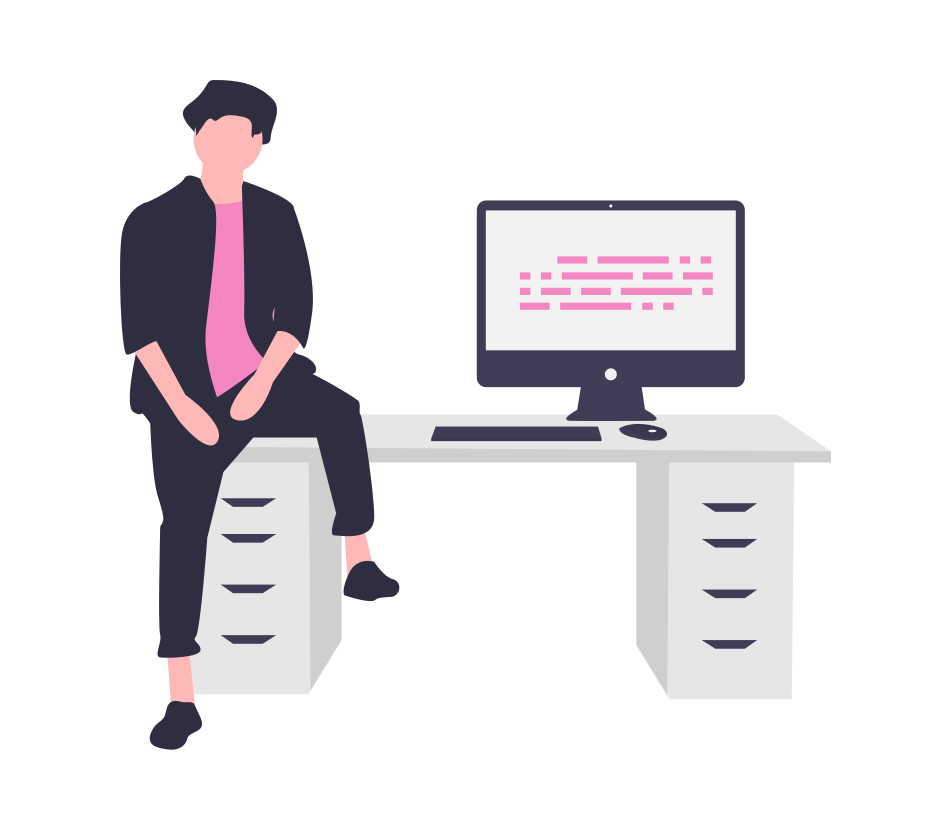
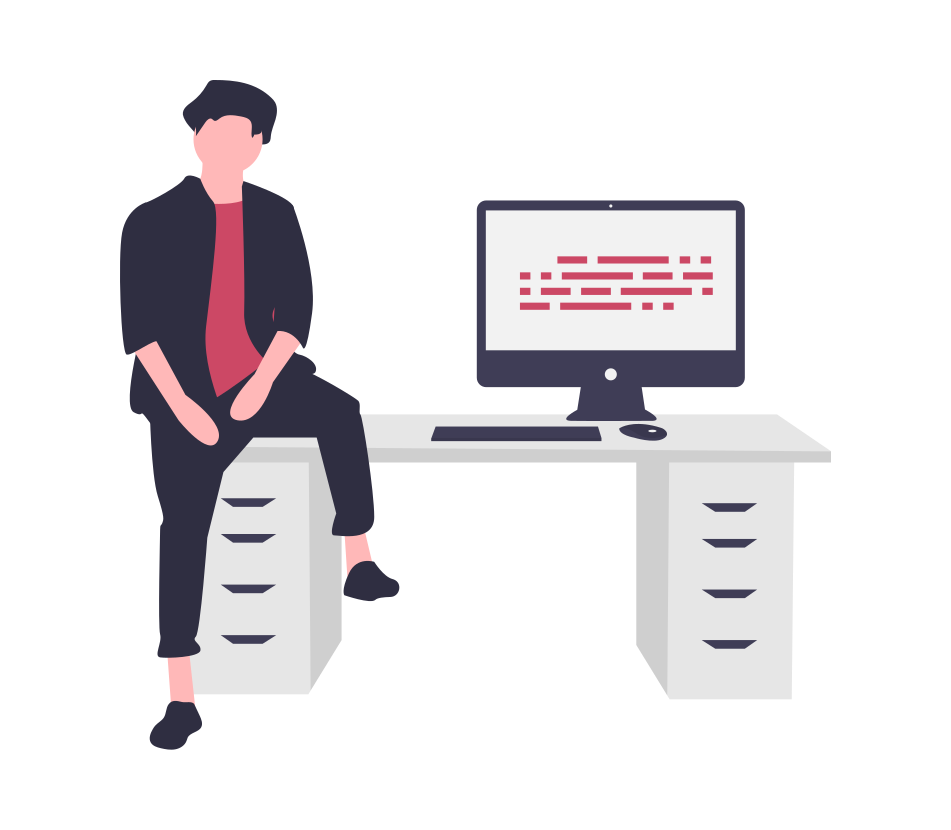
Theme Change

Changed region(s): [[0.5489, 0.3012, 0.7624, 0.3916], [0.2135, 0.241, 0.2744, 0.4819]]

diff --git a/src/Components/Contact/Contact.jsx b/src/Components/Contact/Contact.jsx
@@ -5,6 +5,7 @@ import { Button } from "@material-ui/core";
 import Typography from "@material-ui/core/Typography";
 import EmailIcon from "@material-ui/icons/Email";
 import PhoneIcon from '@material-ui/icons/Phone';
+import LocationOnIcon from '@material-ui/icons/LocationOn';
 import IconButton from "@material-ui/core/IconButton";
 import LinkedInIcon from "@material-ui/icons/LinkedIn";
 import GitHubIcon from "@material-ui/icons/GitHub";
@@ -77,13 +78,13 @@ export const Contact = () => {
             <div className={styles.container} container spacing={1}>
                 <div className={styles.formBox}>
                     <form onSubmit={sendEmail} className={classes.root} noValidate autoComplete="off">
-                        <TextField color="secondary" size="small" label="Name" name="name" />
+                        <TextField color="primary" size="small" label="Name" name="name" />
                         <br />
-                        <TextField color="secondary" size="small" label="Email" name="email" /> <br />
-                        <TextField color="secondary" size="small" label="Subject" name="subject" />
+                        <TextField color="primary" size="small" label="Email" name="email" /> <br />
+                        <TextField color="primary" size="small" label="Subject" name="subject" />
                         <br />
                         <TextField
-                            color="secondary"
+                            color="primary"
                             size="small"
                             name="message"
                             label="Write Your Message here..."
@@ -92,21 +93,25 @@ export const Contact = () => {
                             rows={4}
                             variant="outlined"
                         />
-                        <Button onClick={handleOpen} type="submit" color="secondary" variant="contained">
+                        <Button onClick={handleOpen} type="submit" color="primary" variant="contained">
                             <EmailIcon />
-                            <Typography color="primary">Send Mail</Typography>
+                            <Typography color="secondary">Send Mail</Typography>
                         </Button>
                     </form>
                 </div>
                 <div className={styles.contactDetails}>
                     <div>
-                        <div>
+                        <div className={styles.info}>
                             <EmailIcon />
                             <p>shubhamv430@gmail.com</p>
                         </div>
-                        <div>
+                        <div className={styles.info}>
                             <PhoneIcon />
                             <p>8954686319</p>
+                        </div>
+                        <div className={styles.info}>
+                            <LocationOnIcon />
+                            <p>Baghpat, Uttar Pradesh</p>
                         </div>
                         <div className={styles.iconBox}>
                             <IconButton onClick={() => { window.open("https://www.linkedin.com/in/vshubhams/") }} className={styles.linkedIn}>

diff --git a/src/Components/Navbar/Navbar.jsx b/src/Components/Navbar/Navbar.jsx
@@ -3,11 +3,23 @@ import MenuIcon from "@material-ui/icons/Menu";
 import IconButton from "@material-ui/core/IconButton";
 import { Link as ScrollLink, animateScroll } from "react-scroll";
 import styled from 'styled-components';
+import { useState } from "react";
 
 export const Navbar = ({ toggle }) => {
-  console.log(window.location)
+  const [navbar, setNavbar] = useState(false);
+
+  const changeBackground = () => {
+    if (window.scrollY >= 60) {
+      setNavbar(true);
+    }
+    else {
+      setNavbar(false);
+    }
+  }
+  window.addEventListener('scroll', changeBackground);
+
   return (
-    <div className={styles.wrapper}>
+    <div className={navbar ? `${styles.wrapper} ${styles.active}` : `${styles.wrapper}`}>
       <div className={styles.container}>
         <div className={styles.left}>
           <div
@@ -21,17 +33,17 @@ export const Navbar = ({ toggle }) => {
         <div className={styles.right}>
           <div className={styles.menuItems}>
             <div>
-              <NavLinks to="about" spy={true} exact smooth={true} duration={500} offset={-80} >
+              <NavLinks to="about" spy={true} exact smooth={true} duration={500} offset={-70} >
                 About
               </NavLinks>
             </div>
             <div>
-              <NavLinks to="projects" spy={true} exact smooth={true} duration={500} offset={-70} >
+              <NavLinks to="projects" spy={true} exact smooth={true} duration={500} offset={-80} >
                 Projects
               </NavLinks>
             </div>
             <div>
-              <NavLinks to="contact" spy={true} exact smooth={true} duration={500} offset={-100}>
+              <NavLinks to="contact" spy={true} exact smooth={true} duration={500} offset={-90}>
                 Contact
               </NavLinks>
             </div>
@@ -47,7 +59,7 @@ export const Navbar = ({ toggle }) => {
   );
 };
 export const NavLinks = styled(ScrollLink)`
-  color: #646464;
+  color: white;
   display: flex;
   align-items: center; 
   text-decoration: none; 
@@ -56,9 +68,9 @@ export const NavLinks = styled(ScrollLink)`
   cursor: pointer; 
 
   &.active {
-    border-bottom: 3px solid #AD46A8;
+    border-bottom: 3px solid #FFF;
   }
   &:hover{
-    color: #AD46A8;
+    color: black;
   }
 `;

diff --git a/src/Components/Projects/Projects.jsx b/src/Components/Projects/Projects.jsx
@@ -20,8 +20,10 @@ const useStyles = makeStyles((theme) => ({
     marginRight: theme.spacing(2),
   },
   heroContent: {
-    // backgroundColor: theme.palette.background.paper,
-    // padding: theme.spacing(8, 0, 6),
+    '& h1': {
+      color: '#CC4865',
+      textAlign: "center"
+    }
   },
   heroButtons: {
     marginTop: theme.spacing(4),
@@ -61,7 +63,7 @@ export const Projects = () => {
       <main>
         <div className={classes.heroContent}>
           <Container maxWidth="sm">
-            <h1 style={{ textAlign: "center" }}>Projects</h1>
+            <h1>Projects</h1>
           </Container>
         </div>
         <Container className={classes.cardGrid} maxWidth="lg">
@@ -89,12 +91,12 @@ export const Projects = () => {
                     </div>
                   </CardContent>
                   <CardActions>
-                    <Button onClick={() => { window.open(item.demolink) }} size="small" variant="contained" color="secondary">
-                      <Typography color="primary">
+                    <Button onClick={() => { window.open(item.demolink) }} size="small" variant="contained" color="primary">
+                      <Typography color="secondary">
                         Demo
                       </Typography>
                     </Button>
-                    <Button onClick={() => { window.open(item.gitHub) }} size="small" variant="outlined" color="secondary">
+                    <Button onClick={() => { window.open(item.gitHub) }} size="small" variant="outlined" color="primary">
                       <GitHubIcon className={classes.gitHub} />
                       <Typography >
                         CODE

diff --git a/src/Components/Profile/profile.module.css b/src/Components/Profile/profile.module.css
@@ -1,6 +1,16 @@
-.wrapper{
-margin-top: 60px;
+*{
+color: #15232D;
 }
+.wrapper{
+/* margin-top: 60px; */
+background-image: linear-gradient(rgba(0, 0, 0, 0.2), rgba(0, 0, 0, 0.5)), url("../../images/redcover.png");
+height: 50%;
+background-position: center;
+background-repeat: no-repeat;
+background-size: cover;
+position: relative;
+}
+
 .container{
     display: flex;
     flex-direction: column;
@@ -10,8 +20,10 @@ margin-top: 60px;
     padding: 20px;
 }
 .imgBox>img{
-    width: 120px;
+    width: 150px;
+    border: solid 4px #fff;
     border-radius: 50%;
+    margin-top:50px;
 }
 .myName{
     font-size: 40px;
@@ -19,7 +31,7 @@ margin-top: 60px;
     margin: 20px 0;
 }
 .myName>span{
-    color: #AD46A8;
+    color: #FFF;
 }
 .title{
     font-size: 20px;
@@ -27,18 +39,19 @@ margin-top: 60px;
     margin: 20px 0;
 }
 .title>span{
-    color: #AD46A8;
+    color: #FFF;
 }
 .descrip{
     text-align: center;
+    color: white;
 }
 .container>button{
     border: none;
     outline: none;
-    color: white;
+    color: #CC4865;
     display: flex;
     align-items: center;
-    background-color: #AD46A8;
+    background-color: #FFF;
     padding: 8px 15px;
     cursor: pointer;
     border-radius: 3px;
@@ -46,6 +59,6 @@ margin-top: 60px;
     font-size: 15px;
 }
 .container>button svg{
-    fill: #FFF;
+    fill: #CC4865;
     margin-right: 5px;
 }

diff --git a/src/Components/Navbar/navbar.module.css b/src/Components/Navbar/navbar.module.css
@@ -2,15 +2,16 @@
     margin: 0;
     padding: 0;
     font-family: sans-serif;
-    color: #646464;
 }
 .wrapper{
     top: 0;
     width: 100%;
     position: fixed;
     z-index: 50;
-    background-color: #FAFAFA;
-    border-bottom: solid #c7c7c7 1px;
+    background: transparent;
+}
+.wrapper.active{
+    background-color: #CC4865;
     box-shadow: 0 3px 6px 0 rgb(0 0 0 / 20%);
 }
 .container{
@@ -26,6 +27,7 @@
     font-size: 30px;
     font-weight: 300;
     cursor: pointer;
+    color: white;
 }
 .right{
     display: flex;

diff --git a/src/Components/Profile/Profile.jsx b/src/Components/Profile/Profile.jsx
@@ -8,7 +8,7 @@ export const Profile = () => {
         <div className={styles.wrapper}>
             <div className={styles.container}>
                 <motion.div variants={fade} initial="hidden" animate="show" className={styles.imgBox}>
-                    <img src="/shubhamv2.jpg" alt="" />
+                    <img src="/profile.png" alt="" />
                 </motion.div>
                 <div className={styles.myName}>Hi, I'm <span>Shubham</span></div>
                 <div className={styles.title}>I'm a{" "}

diff --git a/src/index.js b/src/index.js
@@ -9,10 +9,10 @@ import green from '@material-ui/core/colors/green';
 const theme = createTheme({
   palette: {
     primary: {
-      main: "#FFF",
+      main: "#CC4865",
     },
     secondary: {
-      main: "#AD46A8",
+      main: "#FFF",
     },
     green: {
       main:green[500],

diff --git a/src/Components/Contact/contact.module.css b/src/Components/Contact/contact.module.css
@@ -6,6 +6,7 @@
 .wrapper > h1 {
   text-align: center;
   margin-top: 30px;
+  color: #CC4865;
 }
 
 .container {
@@ -62,6 +63,9 @@
   }
   .twitter svg {
     fill: #1d9bf0;
+  }
+  .info>svg{
+    fill: #CC4865;
   }
 @media only screen and (max-width: 600px) {
   .container {

diff --git a/src/Components/AboutMe/aboutMe.module.css b/src/Components/AboutMe/aboutMe.module.css
@@ -1,11 +1,12 @@
 .wrapper {
-  /* border: solid #e7e7e7 1px; */
+  border: solid #e7e7e7 1px;
   background-color: #fafafa;
   margin-bottom: 30px;
 }
 .wrapper>h1{
   text-align: center;
   margin-top: 30px;
+  color: #CC4865;
 }
 
 .container {

diff --git a/src/Components/Projects/projects.module.css b/src/Components/Projects/projects.module.css
@@ -4,8 +4,8 @@
 }
 .techContainer>div{
     color: white;
-    margin: 10px 10px 0px;
+    margin: 10px 10px 0px 0;
     border-radius: 5px;
     padding: 3px 6px;
-    background-color: #646464;
+    background-color: #e47b92;
 }

diff --git a/src/Components/AboutMe/Technologies/tech.module.css b/src/Components/AboutMe/Technologies/tech.module.css
@@ -1,3 +1,4 @@
+
 .container{
     width: 80%;
     margin: auto;
